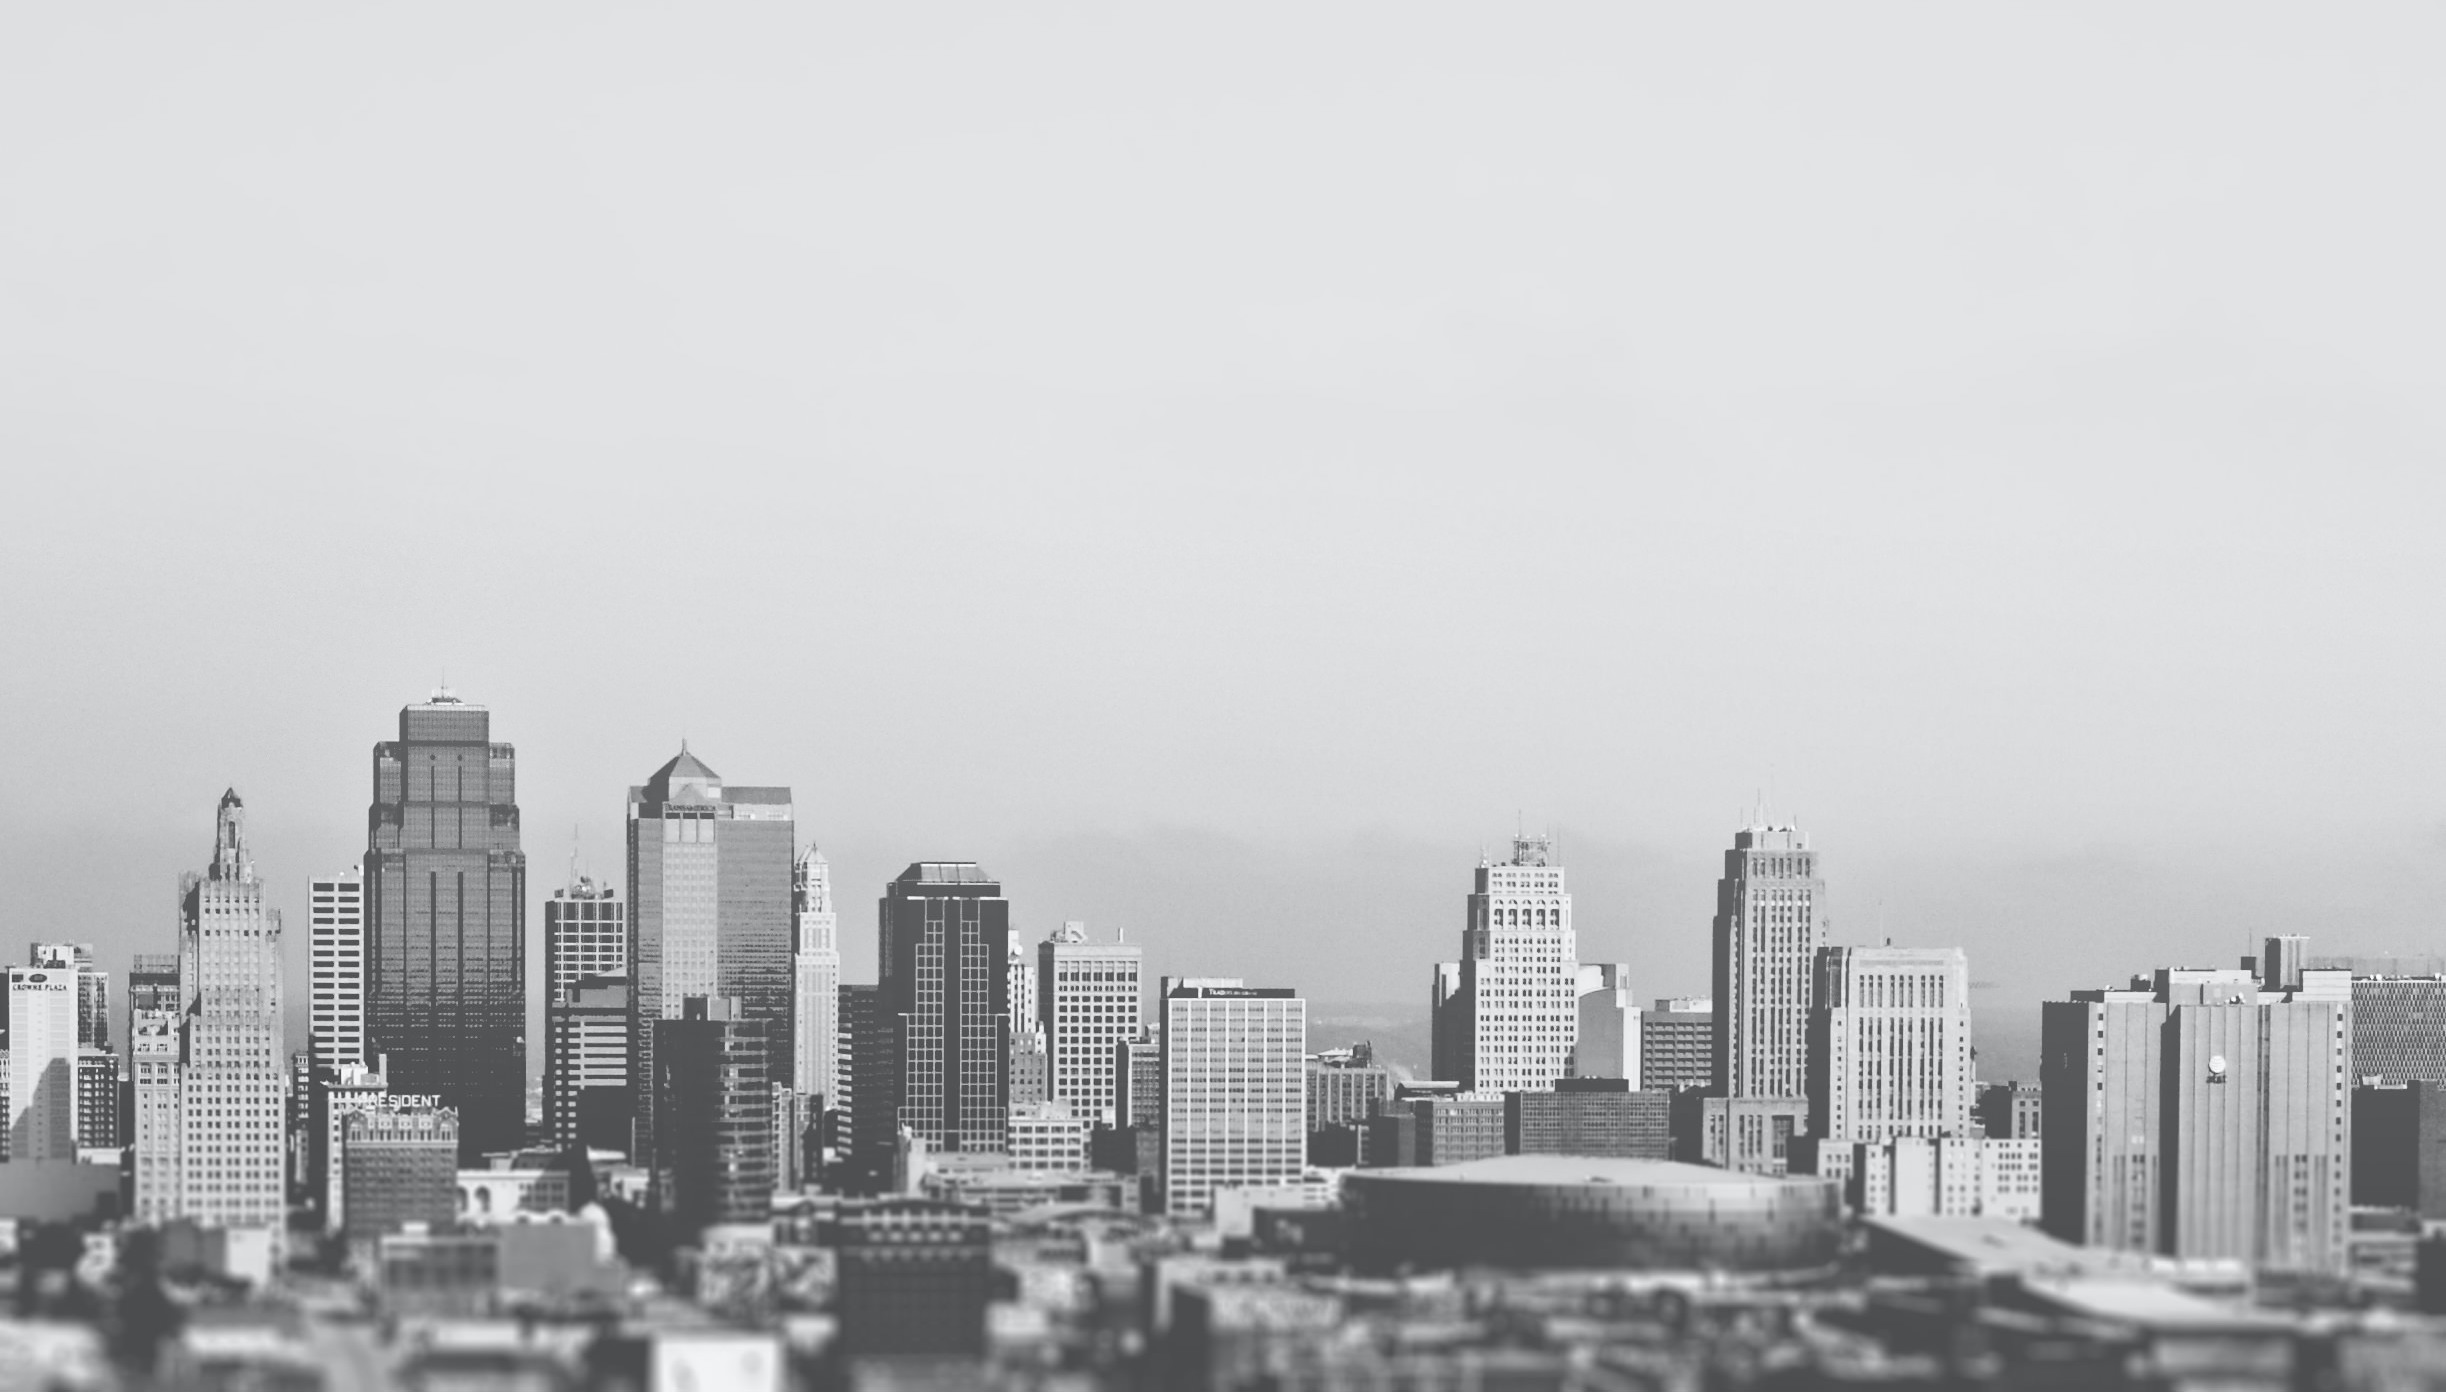
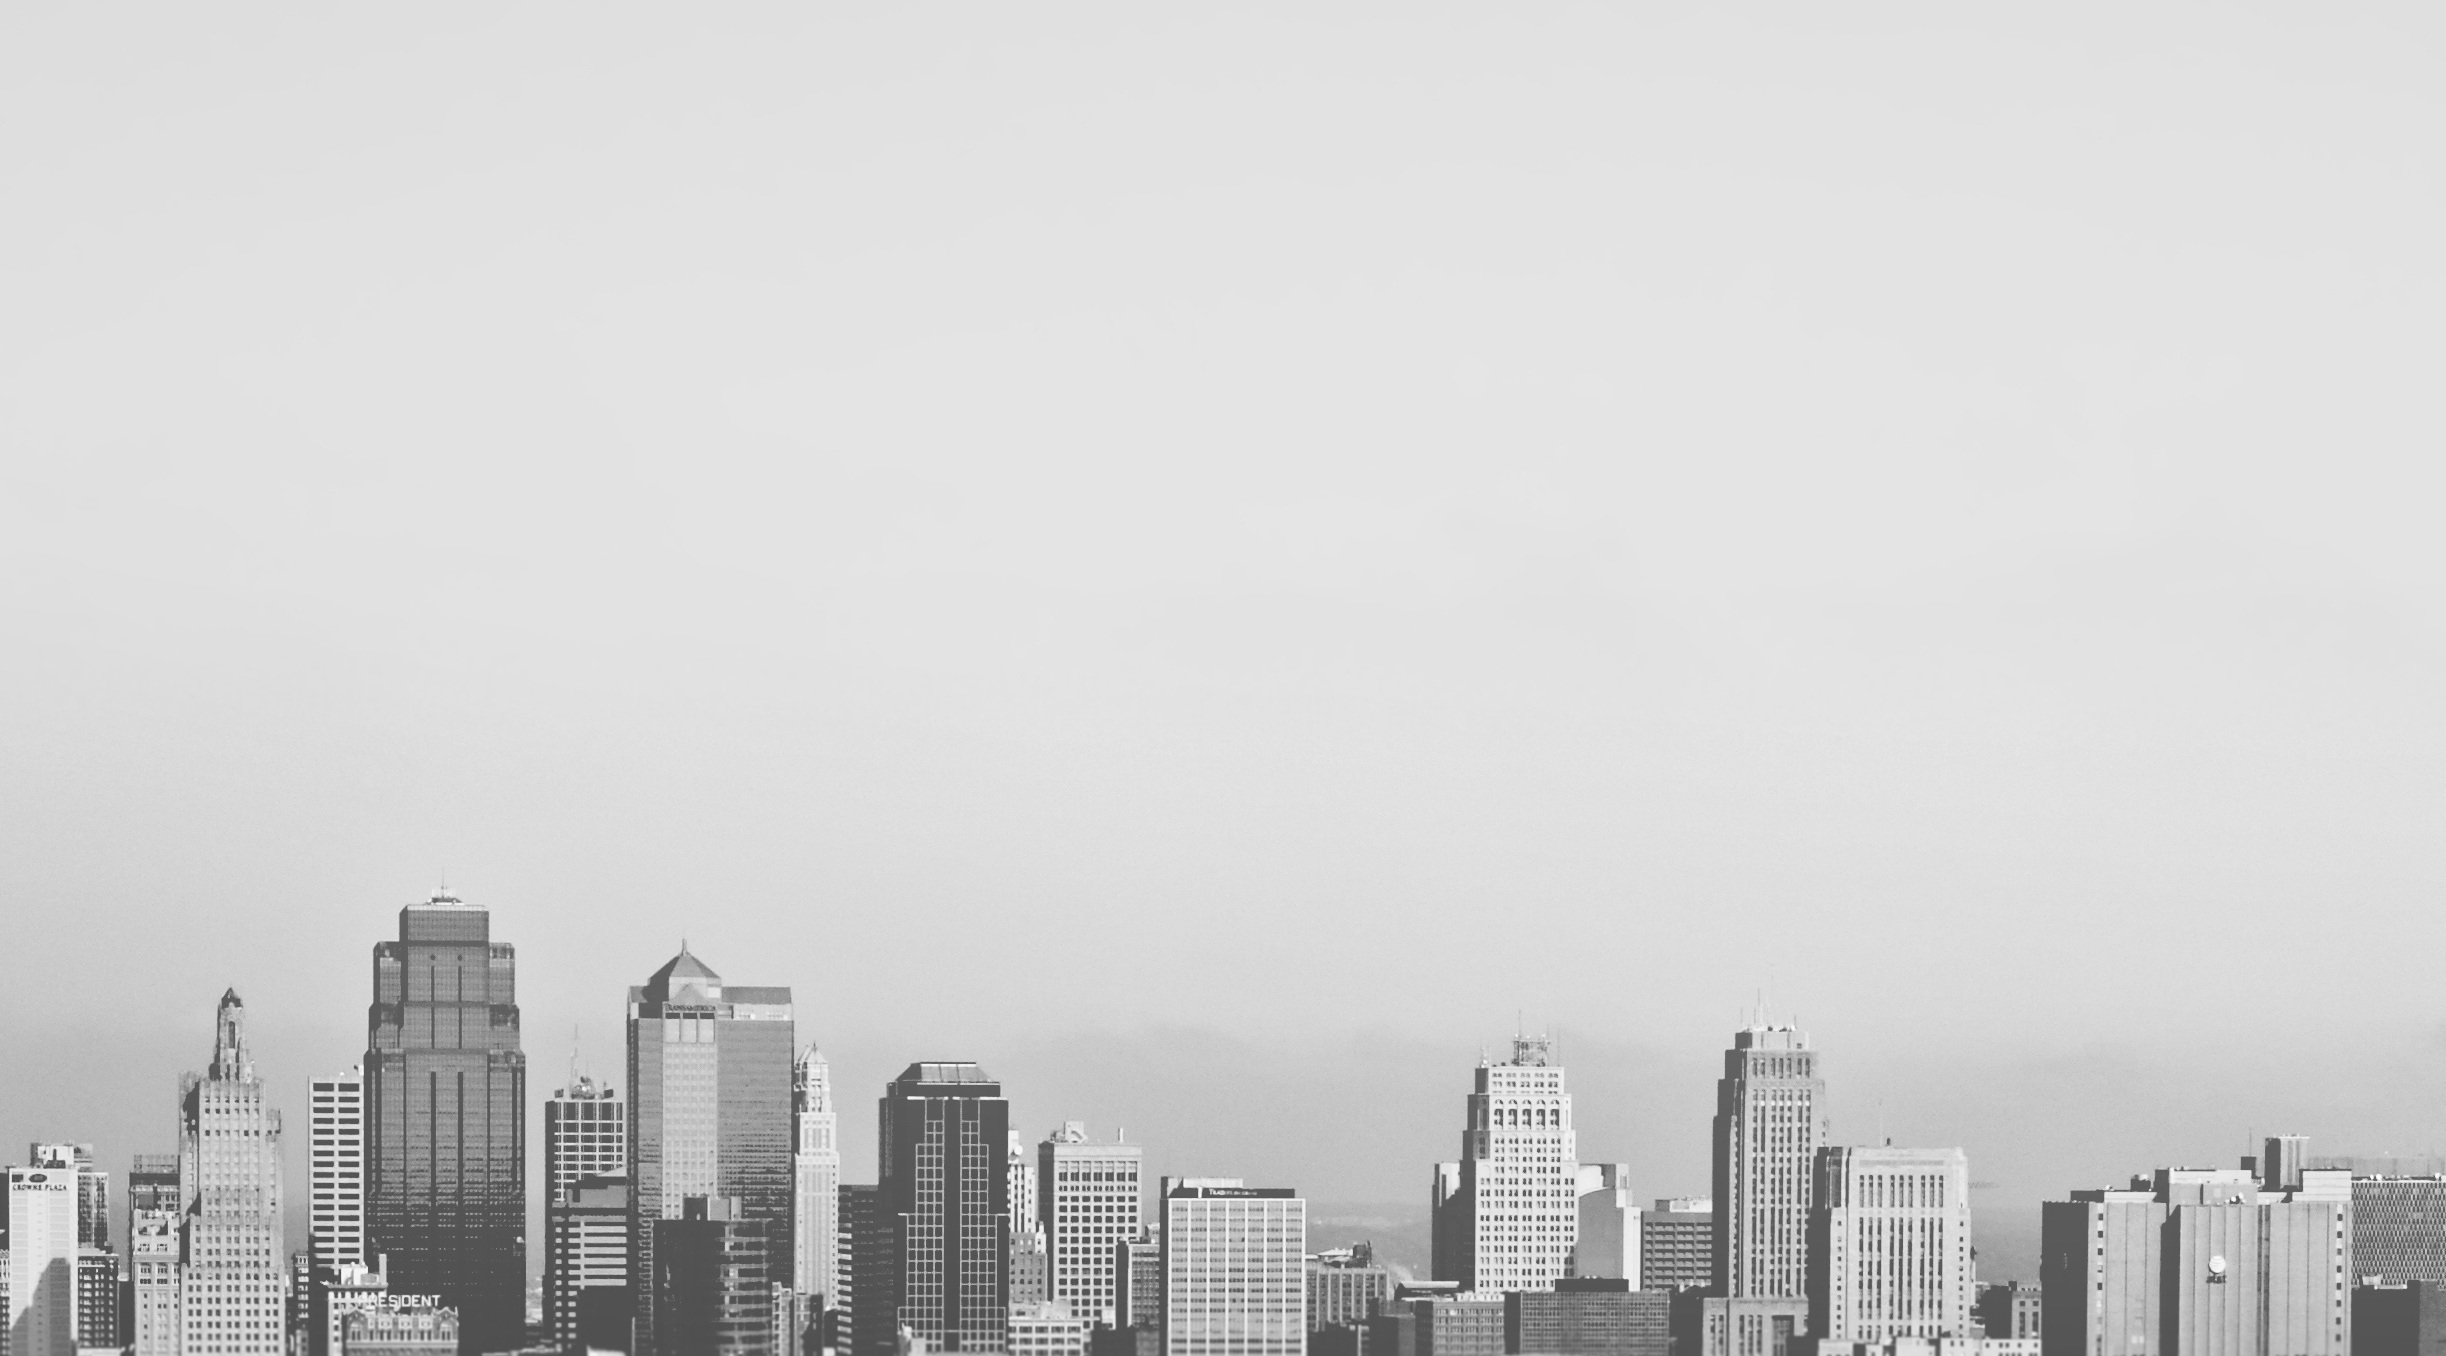
Additional styling and loading bar

Changed region(s): [[0.0, 0.4956, 1.0, 1.0]]

diff --git a/src/App.js b/src/App.js
@@ -1,6 +1,7 @@
 import React, { Component } from "react";
 import "./App.css";
-import Selector from "./components/selector";
+import LoadingBar from "react-top-loading-bar";
+import Selection from "./components/selection";
 import Search from "./components/search";
 import City from "./components/city";
 import Country from "./components/country";
@@ -9,11 +10,11 @@ class App extends Component {
   constructor(props) {
     super(props);
     this.state = {
+      loadingBarProgress: 0,
       action: "selection",
       searchType: "",
       error: null,
       isLoaded: true,
-      city: {},
       cities: []
     };
     this.baseUrl = "http://api.geonames.org/searchJSON?";
@@ -25,13 +26,14 @@ class App extends Component {
   };
 
   handleSearch = keyword => {
+    this.setState({ isLoaded: false, loadingBarProgress: 80 });
     if (this.state.searchType === "City") {
       this.searchUrl =
         this.baseUrl +
         "name_equals=" +
         keyword +
         "&featureClass=P&maxRows=1&username=weknowit";
-      this.callAPI(true);
+      this.callAPI();
       this.setState({ action: "city" });
     } else {
       this.searchUrl =
@@ -39,28 +41,29 @@ class App extends Component {
         "q=" +
         keyword +
         "&featureClass=P&orderby=population&maxRows=3&username=weknowit";
-      this.callAPI(false);
+      this.callAPI();
       this.setState({ action: "country" });
     }
+    this.setState({ loadingBarProgress: 100 });
   };
 
   handleCitySelection = selected => {
-    this.setState({ city: selected.city, action: "city" });
+    this.setState({
+      cities: [selected.city],
+      action: "city"
+    });
   };
 
-  callAPI(isSingleCity) {
+  callAPI() {
     fetch(this.searchUrl)
       .then(res => res.json())
       .then(
         result => {
-          this.setState(
-            isSingleCity
-              ? {
-                  isLoaded: true,
-                  city: result.geonames[0]
-                }
-              : { isLoaded: true, cities: result.geonames }
-          );
+          console.log(result.geonames);
+          this.setState({
+            isLoaded: true,
+            cities: result.geonames
+          });
         },
         error => {
           this.setState({
@@ -71,32 +74,52 @@ class App extends Component {
       );
   }
 
+  onLoaderFinished = () => {
+    this.setState({ loadingBarProgress: 0 });
+  };
+
   renderContent() {
-    const { error, isLoaded, action, city, cities } = this.state;
-    if (error) {
-      return <div>Error: {error.message}</div>;
-    } else if (!isLoaded) {
-      return <div>Loading...</div>;
-    } else if (action === "selection")
-      return <Selector onSelection={this.handleSearchSelection} />;
-    else if (action === "search")
-      return (
-        <Search
-          onSearch={this.handleSearch}
-          searchType={this.state.searchType}
-        />
-      );
-    else if (action === "city") return <City city={city} />;
-    else if (action === "country")
-      return <Country onSelection={this.handleCitySelection} cities={cities} />;
+    const { error, isLoaded, action, cities } = this.state;
+    if (isLoaded) {
+      if (error) {
+        return <div>Error: {error.message}</div>;
+      } else if (action === "selection") {
+        return <Selection onSelection={this.handleSearchSelection} />;
+      } else if (action === "search") {
+        return (
+          <Search
+            onSearch={this.handleSearch}
+            searchType={this.state.searchType}
+          />
+        );
+      } else if (action === "city") {
+        return <City name={cities[0].name} population={cities[0].population} />;
+      } else if (action === "country") {
+        return (
+          <Country
+            onSelection={this.handleCitySelection}
+            name={cities[0].countryName}
+            cities={cities}
+          />
+        );
+      }
+    }
   }
 
   render() {
     return (
       <React.Fragment>
         <div className="App">
+          <LoadingBar
+            progress={this.state.loadingBarProgress}
+            height={4}
+            color="rgb(41, 120, 160)"
+            onLoaderFinished={() => this.onLoaderFinished()}
+          />
           <header className="App-header">
-            <h1>CityPop</h1>
+            <h1>
+              <a href={"/"}>CityPop</a>
+            </h1>
             {this.renderContent()}
           </header>
         </div>

diff --git a/src/components/selection.jsx b/src/components/selection.jsx
@@ -1,18 +1,19 @@
 import React, { Component } from "react";
+import "./selection.css";
 
-class Selector extends Component {
+class Selection extends Component {
   render() {
     return (
       <div>
         <button
           onClick={() => this.props.onSelection("City")}
-          className="btn btn-primary btn-lg mr-2"
+          className="btn btn-dark btn-dark-custom mr-2"
         >
           Search by City
         </button>
         <button
           onClick={() => this.props.onSelection("Country")}
-          className="btn btn-primary btn-lg ml-2"
+          className="btn btn-dark btn-dark-custom ml-2"
         >
           Search by Country
         </button>
@@ -21,4 +22,4 @@ class Selector extends Component {
   }
 }
 
-export default Selector;
+export default Selection;

diff --git a/src/components/search.jsx b/src/components/search.jsx
@@ -1,4 +1,5 @@
 import React, { Component } from "react";
+import "./search.css";
 
 class Search extends Component {
   constructor(props) {
@@ -16,7 +17,7 @@ class Search extends Component {
   render() {
     return (
       <div>
-        <h2>Search by {this.props.searchType}</h2>
+        <h3>Search by {this.props.searchType}</h3>
         <form>
           <input
             type="text"
@@ -27,10 +28,8 @@ class Search extends Component {
           <button
             type="button"
             onClick={() => this.props.onSearch(this.state.keyword)}
-            className="btn btn-primary mt-2"
-          >
-            Search
-          </button>
+            className="btn btn-round"
+          />
         </form>
       </div>
     );

diff --git a/src/App.css b/src/App.css
@@ -1,16 +1,21 @@
 .App {
   text-align: center;
+  background-image: url("./images/city.jpg");
+  background-size: cover;
+  background-color: white;
 }
 
 .App-header {
-  background-image: url("./images/city.jpg");
-  background-size: cover;
-  background-color: #282c34;
   min-height: 100vh;
   display: flex;
   flex-direction: column;
   align-items: center;
-  padding-top: 14%;
-  font-size: calc(10px + 2vmin);
+  padding-top: 8%;
+  font-size: calc(16px + 2vmin);
   color: black;
+}
+
+a:link, a:visited, a:hover, a:active {
+  color: black !important;
+  text-decoration: none !important;
 }

diff --git a/src/components/search.css b/src/components/search.css
@@ -1,0 +1,16 @@
+.btn-round{
+    height: 50px;
+    width: 50px;
+    margin-top: 8px;
+    padding: 10px !important;
+    background-image: url(../images/magnifying.png);
+    background-color: white !important;
+    background-repeat: no-repeat;
+    background-size: contain;
+    background-origin: content-box;
+    border-radius: 50% !important;
+}
+
+.btn-round:hover{
+    background-color: rgb(240, 240, 240) !important;
+}

diff --git a/src/components/country.jsx b/src/components/country.jsx
@@ -1,14 +1,10 @@
 import React, { Component } from "react";
 
 class Country extends Component {
-  constructor(props) {
-    super(props);
-    this.first = this.props.cities[0];
-  }
   render() {
     return (
       <div>
-        <h2>Country</h2>
+        <h3>{this.props.name}</h3>
         {this.props.cities.map(city => (
           <p key={city.name}>
             <button

diff --git a/src/components/city.jsx b/src/components/city.jsx
@@ -4,8 +4,8 @@ class City extends Component {
   render() {
     return (
       <div>
-        <h2>{this.props.city.name}</h2>
-        <h4>Population: {this.props.city.population}</h4>
+        <h3>{this.props.name}</h3>
+        <h5>Population: {this.props.population}</h5>
       </div>
     );
   }

diff --git a/src/components/selection.css b/src/components/selection.css
@@ -1,0 +1,5 @@
+.btn-dark-custom{
+    margin-top: 50px;
+    height:90px;
+    width: 220px;
+}
